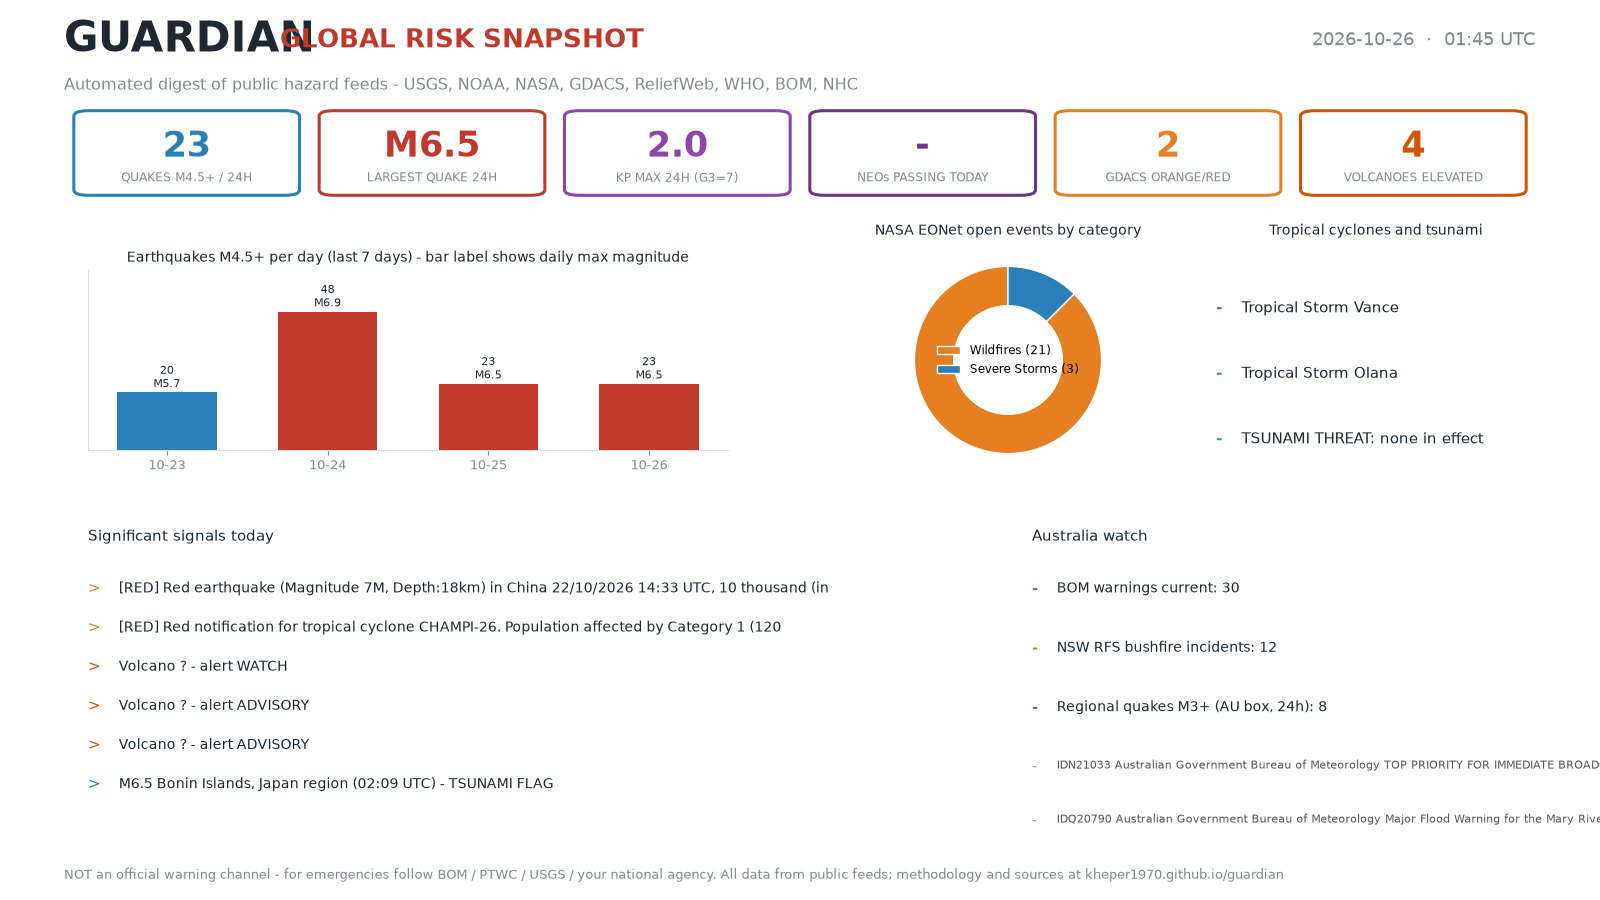
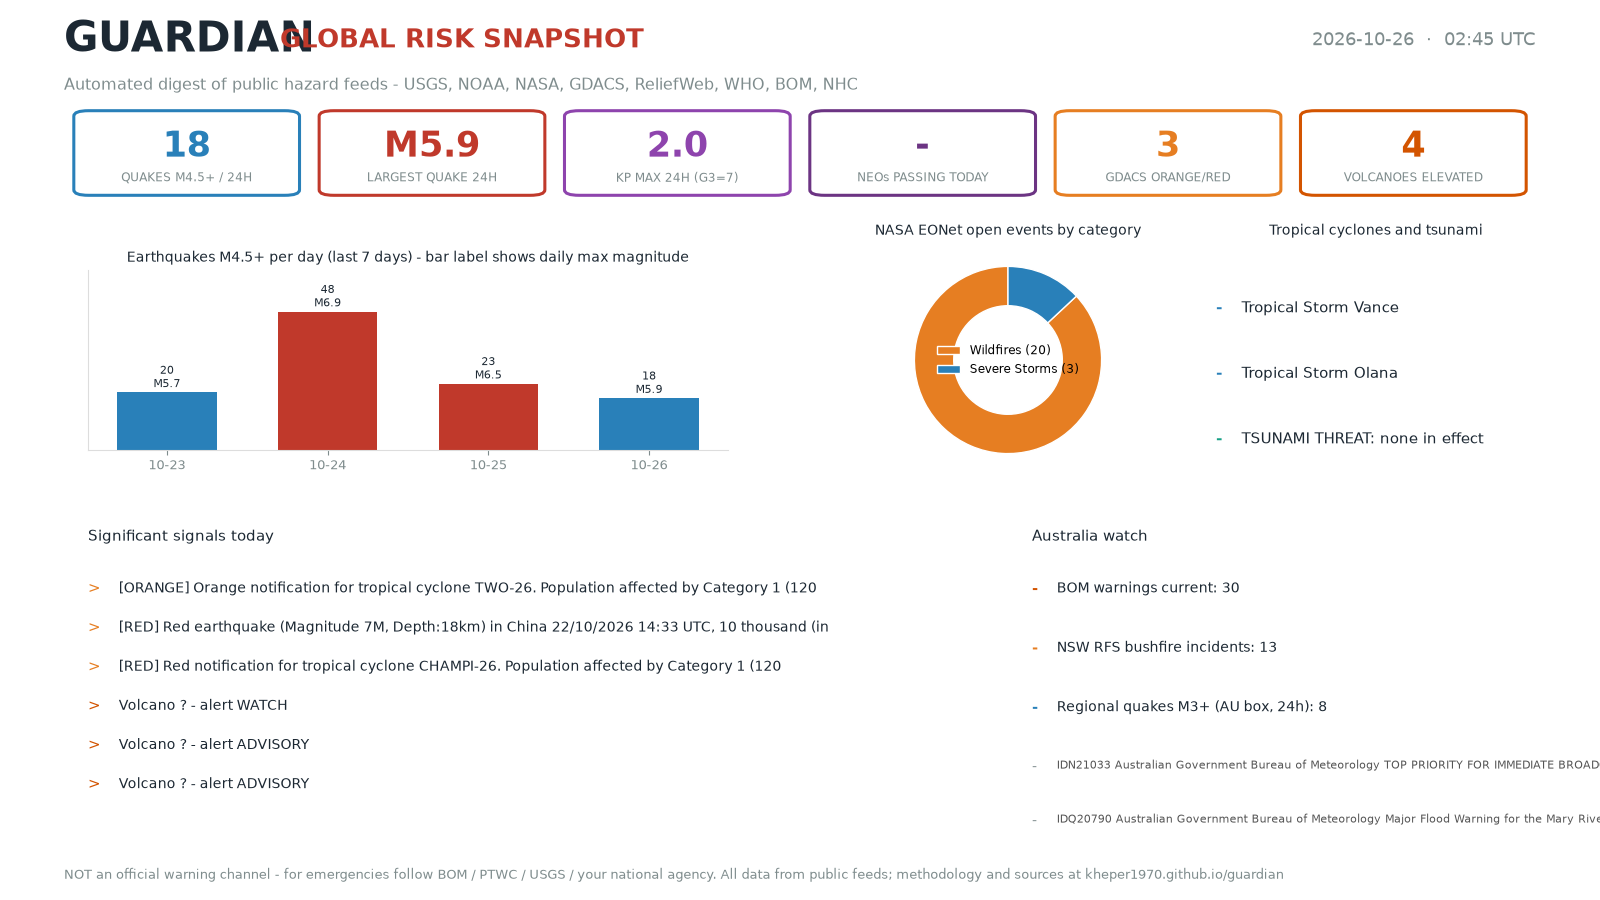
Automated update 2026-10-26T02:50Z

diff --git a/briefing/briefing_2026-10-26.html b/briefing/briefing_2026-10-26.html
@@ -80,16 +80,16 @@ or your national emergency agency.</p>
 <h1>Guardian daily briefing — 2026-10-26</h1>
 <p>Generated automatically from public feeds (USGS, NOAA, NASA, WHO, GDACS, ReliefWeb, EONet, Google News). All times UTC.</p>
 <h2>Earthquakes (M4.5+, last 24h)</h2>
-<p>Count: 22
-- M6.5 Bonin Islands, Japan region (2026-10-25 02:09 UTC) TSUNAMI FLAG
-- M6.1 25 km ENE of Port-Olry, Vanuatu (2026-10-25 02:24 UTC)
+<p>Count: 19
 - M5.9 218 km ENE of Nagqu, China (2026-10-25 11:25 UTC)
 - M5.4 33 km ESE of Ambunti, Papua New Guinea (2026-10-25 10:30 UTC)
 - M5.4 205 km NW of Port-Olry, Vanuatu (2026-10-25 08:41 UTC)
 - M5.3 Bonin Islands, Japan region (2026-10-25 22:14 UTC)
 - M5.2 59 km SW of Ashkāsham, Afghanistan (2026-10-25 17:44 UTC)
 - M5.2 63 km NNE of Lae, Papua New Guinea (2026-10-25 03:29 UTC)
-- ...and 14 more</p>
+- M5.1 199 km ENE of Nagqu, China (2026-10-25 11:24 UTC)
+- M4.9 205 km NW of Port-Olry, Vanuatu (2026-10-26 01:22 UTC)
+- ...and 11 more</p>
 <h2>Space weather</h2>
 <ul>
 <li>Kp now: 1.0; max last 24h: 2.0 (storm threshold G3 = Kp 7.0)</li>
@@ -101,6 +101,7 @@ or your national emergency agency.</p>
 <p>Count: None</p>
 <h2>GDACS significant alerts (orange/red)</h2>
 <ul>
+<li>[ORANGE] (2026-10-26 01:51 UTC) Orange notification for tropical cyclone TWO-26. Population affected by Category 1 (120 km/h) wind speeds or higher is 0.356 million .</li>
 <li>[RED] (2026-10-22 14:54 UTC) Red earthquake (Magnitude 7M, Depth:18km) in China 22/10/2026 14:33 UTC, 10 thousand (in MMI&gt;=VII).</li>
 <li>[RED] (2026-10-14 14:31 UTC) Red notification for tropical cyclone CHAMPI-26. Population affected by Category 1 (120 km/h) wind speeds or higher is 0.291 million .</li>
 </ul>
@@ -161,30 +162,30 @@ or your national emergency agency.</p>
 <li>UK, 31 partners warn of rising famine risk in Sudan, call for urgent action - Anadolu Ajansı (Fri, 23 Oct 2026)</li>
 <li>Millions of Afghans to face food insecurity by next year, UN warns - Modern Ghana (Wed, 21 Oct 2026)</li>
 <li>Food insecurity growing across Nova Scotia, HungerCounts report indicates - - The Laker (Sun, 25 Oct 2026)</li>
-<li>UK households urged to prepare for emergencies and ‘attacks’ in new government guidance - The Independent (Fri, 23 Oct 2026)</li>
+<li>FAO's Global Emergency and Resilience Appeal 2026 | FAO Emergency and Resilience - Food and Agriculture Organization (Mon, 19 Oct 2026)</li>
 </ul>
 <h2>Australia watch (ABC News, NSW RFS, USGS AU quakes, GNews AU, health.gov.au)</h2>
 <ul>
+<li>Rome demonstrators storm Colosseum as Europe's youth protests spread (Mon, 26 Oct 2026)</li>
+<li>Woman granted bail after allegedly trying to snatch teen's hijab (Mon, 26 Oct 2026)</li>
+<li>Worker dies in hospital after being dragged under ute at service station (Mon, 26 Oct 2026)</li>
+<li>Zempilas echoes 'The Road Not Taken' as WA Liberals face difficult choice (Mon, 26 Oct 2026)</li>
 <li>Melbourne Market board quits over appointment of former Demons chief Paul Guerra (Mon, 26 Oct 2026)</li>
-<li>Breaking: Brazil's Luiz Inácio Lula da Silva re-elected president (Mon, 26 Oct 2026)</li>
-<li>Victorian Liberals to ban 'globalise the intifada' chant if elected (Mon, 26 Oct 2026)</li>
-<li>Antonelli is two points away from the F1 title, and can win it next week (Mon, 26 Oct 2026)</li>
-<li>'Meant to be in Perth': Passengers confused by Sydney's new airport (Mon, 26 Oct 2026)</li>
 <li>NSW RFS current incidents: 13 (0 at Warning level)</li>
 <li>AU-region quakes (24h): 8, max M4.7</li>
 <li>M4.3 248 km SW of Tambolaka, Indonesia</li>
 <li>M3.1 14 km SSW of Yarragon, Australia</li>
 <li>M4.4 38 km SSE of Kupang, Indonesia</li>
 <li>AU emergency headlines:</li>
-<li>Multiple flood warnings as Queensland braces for more wild weather - ABC News &amp; Headlines – Australian Broadcasting Corporation (Sat, 24 Oct 2026)</li>
+<li>Women take bushfire preparation into their own hands - ABC News &amp; Headlines – Australian Broadcasting Corporation (Mon, 26 Oct 2026)</li>
 <li>Australian National Weather Forecast - Nine.com.au (Sun, 25 Oct 2026)</li>
 <li>‘Unusually large’ multi-state storm causing severe weather for Australia’s east – with more on the way - The Guardian (Sun, 25 Oct 2026)</li>
 <li>‘Severe’: Wild weather lashes Australia’s east - News.com.au (Sun, 25 Oct 2026)</li>
 <li>Dongara holds fire safety training for women — ABC News Australia - UA.NEWS (Mon, 26 Oct 2026)</li>
 <li>The cracks in Australia’s defence policy: The Navy is being set up for failure - Crikey (Mon, 26 Oct 2026)</li>
 <li>Thales opens Western Sydney sonar facility - Australian Defence Magazine (Mon, 26 Oct 2026)</li>
+<li>Moseley’s ambassador post to advance Australia’s security interests - The Mandarin (Mon, 26 Oct 2026)</li>
 <li>Politicians vow to honour Haines as parliament returns - ABC News &amp; Headlines – Australian Broadcasting Corporation (Sun, 25 Oct 2026)</li>
-<li>PHP update: Why are so many websites down and when will they return? - SBS (Sun, 25 Oct 2026)</li>
 <li>health.gov.au:</li>
 <li>Secondary navigation</li>
 <li>You are here</li>
@@ -215,8 +216,8 @@ or your national emergency agency.</p>
 <li>Mon, 10 Aug 2026 00:00:00 +0000: Colombia: Earthquake - Aug 2026</li>
 </ul>
 <h2>Alerts</h2>
-<p><strong>QUAKE M&gt;=6.5: M6.5 Bonin Islands, Japan region (2026-10-25 02:09 UTC) TSUNAMI FLAG</strong>
-<strong>VOLCANO ORANGE: Great Sitkin (avo)</strong></p>
+<p><strong>VOLCANO ORANGE: Great Sitkin (avo)</strong>
+<strong>AU EMERGENCY KEYWORD HIT: Women take bushfire preparation into their own hands - ABC News &amp; Headlines – Australian Broadcasting Corporation</strong></p>
 </div></main>
 <footer><div class="wrap">
 Generated automatically by the Guardian pipeline (<a href="https://github.com/kheper1970/guardian">open source on GitHub</a>).

diff --git a/index.html b/index.html
@@ -85,8 +85,8 @@ or your national emergency agency.</p>
 refreshes with every publish.</p>
 </div>
 <div class="card"><h2 style="margin-top:0">Latest snapshot statistics</h2>
-<div class="statgrid"><div class="stat"><div class="n">23</div><div class="l">quakes M4.5+ / 24h</div></div><div class="stat"><div class="n">M6.5</div><div class="l">largest quake</div></div><div class="stat"><div class="n">2.0</div><div class="l">Kp max 24h</div></div><div class="stat"><div class="n">None</div><div class="l">NEOs today</div></div><div class="stat"><div class="n">2</div><div class="l">GDACS orange/red</div></div><div class="stat"><div class="n">4</div><div class="l">volcanoes elevated</div></div></div>
-<p style="color:#666666;font-size:.9rem">Snapshot taken 2026-10-26T01:45:01.134973+00:00 UTC.
+<div class="statgrid"><div class="stat"><div class="n">18</div><div class="l">quakes M4.5+ / 24h</div></div><div class="stat"><div class="n">M5.9</div><div class="l">largest quake</div></div><div class="stat"><div class="n">2.0</div><div class="l">Kp max 24h</div></div><div class="stat"><div class="n">None</div><div class="l">NEOs today</div></div><div class="stat"><div class="n">3</div><div class="l">GDACS orange/red</div></div><div class="stat"><div class="n">4</div><div class="l">volcanoes elevated</div></div></div>
+<p style="color:#666666;font-size:.9rem">Snapshot taken 2026-10-26T02:45:01.199654+00:00 UTC.
 Open the <a href="briefing/briefing_2026-10-26.html">full briefing</a> for details and sources.</p>
 </div>
 <div class="card"><h2 style="margin-top:0">Daily infographic</h2>

diff --git a/briefing/briefing_2026-10-26.md b/briefing/briefing_2026-10-26.md
@@ -3,16 +3,16 @@
 Generated automatically from public feeds (USGS, NOAA, NASA, WHO, GDACS, ReliefWeb, EONet, Google News). All times UTC.
 
 ## Earthquakes (M4.5+, last 24h)
-Count: 22
-- M6.5 Bonin Islands, Japan region (2026-10-25 02:09 UTC) TSUNAMI FLAG
-- M6.1 25 km ENE of Port-Olry, Vanuatu (2026-10-25 02:24 UTC)
+Count: 19
 - M5.9 218 km ENE of Nagqu, China (2026-10-25 11:25 UTC)
 - M5.4 33 km ESE of Ambunti, Papua New Guinea (2026-10-25 10:30 UTC)
 - M5.4 205 km NW of Port-Olry, Vanuatu (2026-10-25 08:41 UTC)
 - M5.3 Bonin Islands, Japan region (2026-10-25 22:14 UTC)
 - M5.2 59 km SW of Ashkāsham, Afghanistan (2026-10-25 17:44 UTC)
 - M5.2 63 km NNE of Lae, Papua New Guinea (2026-10-25 03:29 UTC)
-- ...and 14 more
+- M5.1 199 km ENE of Nagqu, China (2026-10-25 11:24 UTC)
+- M4.9 205 km NW of Port-Olry, Vanuatu (2026-10-26 01:22 UTC)
+- ...and 11 more
 
 ## Space weather
 - Kp now: 1.0; max last 24h: 2.0 (storm threshold G3 = Kp 7.0)
@@ -24,6 +24,7 @@ Count: 22
 Count: None
 
 ## GDACS significant alerts (orange/red)
+- [ORANGE] (2026-10-26 01:51 UTC) Orange notification for tropical cyclone TWO-26. Population affected by Category 1 (120 km/h) wind speeds or higher is 0.356 million .
 - [RED] (2026-10-22 14:54 UTC) Red earthquake (Magnitude 7M, Depth:18km) in China 22/10/2026 14:33 UTC, 10 thousand (in MMI&gt;=VII).
 - [RED] (2026-10-14 14:31 UTC) Red notification for tropical cyclone CHAMPI-26. Population affected by Category 1 (120 km/h) wind speeds or higher is 0.291 million .
 
@@ -79,29 +80,29 @@ Count: None
 - UK, 31 partners warn of rising famine risk in Sudan, call for urgent action - Anadolu Ajansı (Fri, 23 Oct 2026)
 - Millions of Afghans to face food insecurity by next year, UN warns - Modern Ghana (Wed, 21 Oct 2026)
 - Food insecurity growing across Nova Scotia, HungerCounts report indicates - - The Laker (Sun, 25 Oct 2026)
-- UK households urged to prepare for emergencies and ‘attacks’ in new government guidance - The Independent (Fri, 23 Oct 2026)
+- FAO's Global Emergency and Resilience Appeal 2026 | FAO Emergency and Resilience - Food and Agriculture Organization (Mon, 19 Oct 2026)
 
 ## Australia watch (ABC News, NSW RFS, USGS AU quakes, GNews AU, health.gov.au)
+- Rome demonstrators storm Colosseum as Europe's youth protests spread (Mon, 26 Oct 2026)
+- Woman granted bail after allegedly trying to snatch teen's hijab (Mon, 26 Oct 2026)
+- Worker dies in hospital after being dragged under ute at service station (Mon, 26 Oct 2026)
+- Zempilas echoes 'The Road Not Taken' as WA Liberals face difficult choice (Mon, 26 Oct 2026)
 - Melbourne Market board quits over appointment of former Demons chief Paul Guerra (Mon, 26 Oct 2026)
-- Breaking: Brazil's Luiz Inácio Lula da Silva re-elected president (Mon, 26 Oct 2026)
-- Victorian Liberals to ban 'globalise the intifada' chant if elected (Mon, 26 Oct 2026)
-- Antonelli is two points away from the F1 title, and can win it next week (Mon, 26 Oct 2026)
-- 'Meant to be in Perth': Passengers confused by Sydney's new airport (Mon, 26 Oct 2026)
 - NSW RFS current incidents: 13 (0 at Warning level)
 - AU-region quakes (24h): 8, max M4.7
   - M4.3 248 km SW of Tambolaka, Indonesia
   - M3.1 14 km SSW of Yarragon, Australia
   - M4.4 38 km SSE of Kupang, Indonesia
 - AU emergency headlines:
-  - Multiple flood warnings as Queensland braces for more wild weather - ABC News &amp; Headlines – Australian Broadcasting Corporation (Sat, 24 Oct 2026)
+  - Women take bushfire preparation into their own hands - ABC News &amp; Headlines – Australian Broadcasting Corporation (Mon, 26 Oct 2026)
   - Australian National Weather Forecast - Nine.com.au (Sun, 25 Oct 2026)
   - ‘Unusually large’ multi-state storm causing severe weather for Australia’s east – with more on the way - The Guardian (Sun, 25 Oct 2026)
   - ‘Severe’: Wild weather lashes Australia’s east - News.com.au (Sun, 25 Oct 2026)
   - Dongara holds fire safety training for women — ABC News Australia - UA.NEWS (Mon, 26 Oct 2026)
   - The cracks in Australia’s defence policy: The Navy is being set up for failure - Crikey (Mon, 26 Oct 2026)
   - Thales opens Western Sydney sonar facility - Australian Defence Magazine (Mon, 26 Oct 2026)
+  - Moseley’s ambassador post to advance Australia’s security interests - The Mandarin (Mon, 26 Oct 2026)
   - Politicians vow to honour Haines as parliament returns - ABC News &amp; Headlines – Australian Broadcasting Corporation (Sun, 25 Oct 2026)
-  - PHP update: Why are so many websites down and when will they return? - SBS (Sun, 25 Oct 2026)
 - health.gov.au:
   - Secondary navigation
   - You are here
@@ -130,5 +131,5 @@ Count: None
 - Mon, 10 Aug 2026 00:00:00 +0000: Colombia: Earthquake - Aug 2026
 
 ## Alerts
-**QUAKE M>=6.5: M6.5 Bonin Islands, Japan region (2026-10-25 02:09 UTC) TSUNAMI FLAG**
 **VOLCANO ORANGE: Great Sitkin (avo)**
+**AU EMERGENCY KEYWORD HIT: Women take bushfire preparation into their own hands - ABC News &amp; Headlines – Australian Broadcasting Corporation**
